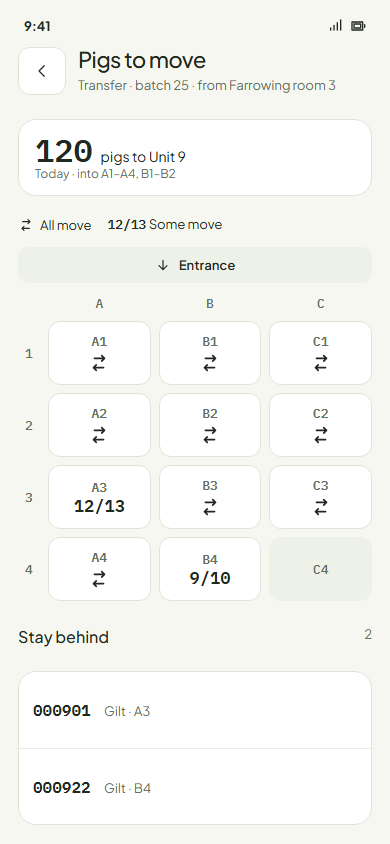
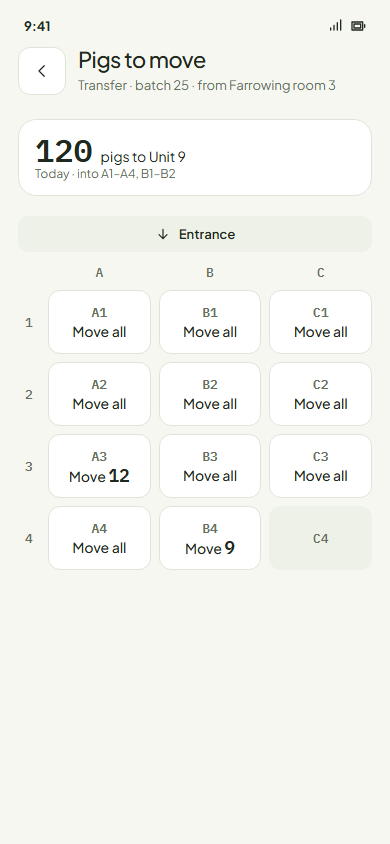
Count: Pigs to move is just a list; pens say Move all or Move 12; owner rulings on the transfer flow

diff --git a/features/count/PRD.md b/features/count/PRD.md
@@ -31,7 +31,7 @@ Reviewed on the Claude Design canvas ([canvas.md](canvas.md)). Ruled and redrawn
 - **Recount is the unit's, with a balance sheet** (owner, 2026-11-03; supersedes the per-pen Review count). *Recount · Unit 7* lists the unit's pens, each with what was found or *Not counted yet*; tapping a pen opens the pen count (all pigs, then ear tags by search or scan), whose *Done* returns to the list. *Count* on a pen page opens the same recount, straight into that pen. *Finish recount* shows the **unit balance sheet**: on record against counted; pigs found in another pen, which move; pigs without ear tags netted pen against pen (D4 −1, D5 +1: balanced), so pigs moved and not updated, or piglets shuffled between pens, stop being losses; and only what the unit can't account for (000803, found in no pen) goes on the batch's balancing sheet. *Save recount*. ([mock 10](mock/mock-10-unit-recount.png), [11](mock/mock-11-unit-balance.png).)
 - **A recount that changes nothing just saves; the balance sheet opens only when the unit's total changed** (owner, 2026-11-03). It is one ledger card in the owner's order: *Counted 60* at the top; each change a door with its signed figure in a tonal tile (*Found from other units +2*, *Not found −1*, the one amber, to the balancing sheet); *On record 59* at the bottom ([11](mock/mock-11-unit-balance.png); each line opens its pigs: [11b](mock/mock-11b-found.png), [11c](mock/mock-11c-not-found.png)). Pigs without ear tags counted in a different pen of the unit than recorded are normal work: the pens are updated and nothing is said. **The recount is drawn on the unit's pen map** (owner: "we should use pen view"): counted pens turn done-green with their count; a pen with pigs still to count shows what the record says; an empty pen says *Empty*; any pen can be counted, an empty one too; a pen not counted when you finish keeps its record (the footer says so: *D5 not counted · Keeps 38 if you finish*) ([10](mock/mock-10-unit-recount.png)).
 - **The pen count asks two questions** (owner, 2026-11-03: titles are questions): *How many pigs are in D4?* (the stepper), then *Which tagged pigs are here?* with *4 found* beside it (search or scan, ticked rows).
-- **Receiving is two parts: the plan, then the count** (owner, 2026-11-03; supersedes receiving pen by pen). *Receive pigs* is a task page like Farrowing's room (owner, 2026-11-03): one header, the task card (this unit's *Received* on the left; *Task overview ›* on the right, across units, where the crew switches unit and ends the task, as in every task). Below, the unit's pen map: capacity is said once (*Pens hold 15*); an empty pen shows only its code; a pen with pigs shows how many and, until it is counted, a fill line for how full it is (owner, 2026-11-03: *9/15* on every tile was an information explosion); the planned pens are outlined, a suggestion only (no number per pen, nothing owed to a pen); pigs may go into any pen. Nothing is recorded while pigs are moving. Once they are in, tap any pen to count it (all pigs, then ear tags); a counted pen turns done-green, a pen off the plan too. What was counted is where the pigs are ([13](mock/mock-13-receive-plan.png), [14](mock/mock-14-receive-count.png), [12](mock/mock-12-receive-pen.png)). The map tile showing pigs and a fill line, outlined when planned, is a proposed PenMap variant (*room*). **Pigs to move is the source room's pen map, and a glance** (owner, 2026-11-03: the crew looks once and puts the phone away; no *Receive in Unit 9* button, the move out records nothing; where to on top, the pigs that stay named under the map; the whole flow is proposed in [transfer-flow.md](transfer-flow.md)): a pen whose pigs all go shows the move glyph (not a tick, which reads as done); a pen sending some shows *12/13*; tapping it opens the pen with a toggle, *Move · 12* and *Stay · 1* ([9](mock/mock-9-transfer-out.png), [9b](mock/mock-9b-pen-move.png), [9c](mock/mock-9c-pen-stay.png)).
+- **Receiving is two parts: the plan, then the count** (owner, 2026-11-03; supersedes receiving pen by pen). *Receive pigs* is a task page like Farrowing's room (owner, 2026-11-03): one header, the task card (this unit's *Received* on the left; *Task overview ›* on the right, across units, where the crew switches unit and ends the task, as in every task). Below, the unit's pen map: capacity is said once (*Pens hold 15*); an empty pen shows only its code; a pen with pigs shows how many and, until it is counted, a fill line for how full it is (owner, 2026-11-03: *9/15* on every tile was an information explosion); the planned pens are outlined, a suggestion only (no number per pen, nothing owed to a pen); pigs may go into any pen. Nothing is recorded while pigs are moving. Once they are in, tap any pen to count it (all pigs, then ear tags); a counted pen turns done-green, a pen off the plan too. What was counted is where the pigs are ([13](mock/mock-13-receive-plan.png), [14](mock/mock-14-receive-count.png), [12](mock/mock-12-receive-pen.png)). The map tile showing pigs and a fill line, outlined when planned, is a proposed PenMap variant (*room*). **Pigs to move is the source room's pen map, and a glance** (owner, 2026-11-03: the crew looks once and puts the phone away; no *Receive in Unit 9* button, the move out records nothing; where to on top; each pen says it in words, *Move all* or *Move 12* (no icon, no *12/13*, no key, no list of pigs that stay); the whole flow is proposed in [transfer-flow.md](transfer-flow.md)): a pen whose pigs all go shows the move glyph (not a tick, which reads as done); a pen sending some shows *12/13*; tapping it opens the pen with a toggle, *Move · 12* and *Stay · 1* ([9](mock/mock-9-transfer-out.png), [9b](mock/mock-9b-pen-move.png), [9c](mock/mock-9c-pen-stay.png)).
 - **Ending the transfer is Farrowing's End task** (owner, 2026-11-03: "look at how we do it for the farrowing end task"). After receiving, the task closes from *End task*: the heading answers (*Ready to end early* / *Ready to end*); one bar over the batch's pigs, then a row per part: *Received* (done) and *Not arrived* (with the amber "!", as *Leave the batch*; the row says what ending does: *Goes on the balancing sheet*). Never *Still to count*: the planned pens are a suggestion, so a pig is either received or not arrived (owner, 2026-11-03). *Not arrived* opens its pigs: those without ID as one number; those with ID in Fostering's *With ID* picker (search and scan in one box, a read ticks). Ticking a pig that turned up makes the footer *Move to*, to put her in a pen; she leaves *Not arrived*. Nothing else on the page (no *When you end*, no second count card; Farrowing has neither); then the hold ([16b](mock/mock-16b-end-early.png), [16d](mock/mock-16d-not-arrived.png), [16e](mock/mock-16e-not-arrived-move.png), [16c](mock/mock-16c-end-ready.png)). The receiving and End task mocks render against a checkout that has Farrowing's room page and End task (PR 294).
 - **Sex and weight of pigs without ear tags** (owner question): recommended kept on the batch (sex split and the last average weight), never per pen, so a move or count never asks for them.
 

diff --git a/features/count/transfer-flow.md b/features/count/transfer-flow.md
@@ -27,7 +27,9 @@ is the only point where someone stops anyway, because the pigs have to be put so
 
 ## Questions
 
-1. The source records nothing; pigs leave its record when received. *Recommend: yes.*
-2. Sows and gilts are received by exception (*All here* per pen, scan only a difference), never counted. *Recommend: yes.*
-3. Moving into farrowing: its own Transfer task like every other move, with Farrowing starting once the sows are in; or the
-   first step of the Farrowing task. *Recommend: its own Transfer task, so every move works one way.*
+1. The source records nothing; pigs leave its record when received. **Ruled (owner, 2026-11-03): moving out is nothing, just a list
+   to show them.** Each pen says *Move all* or *Move 12* in words; no icon, no 12/13, no key, no list of pigs that stay.
+2. Sows and gilts are received by exception (*All here* per pen, scan only a difference), never counted. *Recommend: yes.* Open.
+3. Moving into farrowing is its own Transfer task. **Ruled (owner, 2026-11-03): yes; transfer tasks and their triggers are set up in
+   the Console.** How farms automate moves (where to and when, by date or by a change in a pig's status) gets its own doc later;
+   for now only the phone side is designed.
